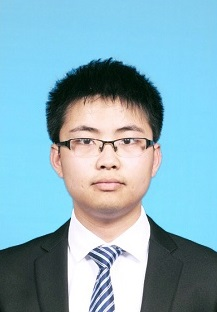
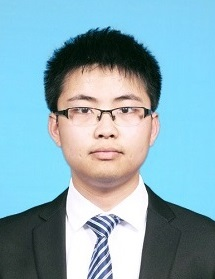
index in detail

Changed region(s): [[0.0, 0.086, 1.0, 1.0], [0.7535, 0.7742, 0.7814, 0.8029]]

diff --git a/index.html b/index.html
@@ -1,66 +1,168 @@
-
-<!DOCTYPE html PUBLIC "-//W3C//DTD XHTML 1.1//EN"
-  "http://www.w3.org/TR/xhtml11/DTD/xhtml11.dtd">
+<!DOCTYPE html PUBLIC "-//W3C//DTD XHTML 1.1//EN" "http://www.w3.org/TR/xhtml11/DTD/xhtml11.dtd">
 <html xmlns="http://www.w3.org/1999/xhtml" xml:lang="en">
+
 <head>
 <link rel="icon" type="image/png" href="image/fengjixiong.jpg">
 <meta http-equiv="Content-Type" content="text/html;charset=utf-8" />
 <link rel="stylesheet" href="jemdoc.css" type="text/css" />
 <title>Jixiong Feng</title>
 </head>
-<body>
-  <table summary="Table for page layout." id="tlayout">
-    <tr valign="top">
-      <td id="layout-content">
-        <div id="toptitle">
-          <h1>Jixiong Feng</h1>
-        </div>
-        <table class="imgtable">
-        <tr>
-          <td>
-          <a href=""><img src="image/fengjixiong.jpg" alt="Jixiong Feng" width="108px" height="140px" /></a>&nbsp;
-          </td>
-          <td align="left">
-          <p>Greetings! I received my master's degree at Department of Electronics Engineering(Dept.EE), Tsinghua University. 
-            My supervisors was <a href="http://www.ee.tsinghua.edu.cn/publish/eeen/3784/2010/20101219115647917992904/20101219115647917992904_.html">Ms. Liangrui Peng</a>.</p>
-          <p>My research interest is mainly on machine learning and its applications to multimedia analysis and computer vision.</p>
-          </td>
-        </tr>
-        </table>
 
-        <h2>Education</h2>
-        <ol>
-          <li>2009-2013: Zhejiang University, Bachelor of Engineering</li>
-          <li>2013-2015: Tsinghua University, Master of Science</li>
-        </ol>
-        
-        <h2>Work Experience</h2>
-        <ol>
-          <li>2015-NOW: Institute of Electronics, Chinese Academy of Science, Research Assistant</li>
-        </ol>
-        
-        <h2>Selected Publications</h2>
-        <ol>
-          <li><p><b>Feng, Jixiong</b>, L. Peng, and F. Lebourgeois. 
-            "Gaussian process style transfer mapping for historical Chinese character recognition." 
-            SPIE/IS&T Electronic Imaging International Society for Optics and Photonics, 2015.</p>
-          </li>
-        </ol>
-        
-        <h2>Honors & Awards</h2>
-        <ol>
-          <li>Best Student Award of the 22nd Document Recognition & Retrieval, SPIE2015 (San Francisco, USA)</li>
-          <li>3rd Award of Tsinghua Student Award (2015)</li>
-          <li>National Award (2010, 2011 and 2012)</li>
-          <li>2nd award of the National Math Competition for the Undergraduates</li>
-        </ol>
-        
-        <h2>Contact</h2>
-        <p>Mail Adress: Institute of Electronics, Chinese Academy of Science, 
-        No.19 North 4th Ring Road West, Haidian District, Beijing, China.</p>
-        <p>Email: jxfeng@mail.ie.ac.cn</p>
-      </td>
-    </tr>
-  </table>
+<body>
+
+<h1>Jixiong Feng (冯继雄)</h1>
+<table class="imgtable">
+<tr>
+  <td>
+	<a href="">
+	  <img src="image/fengjixiong.jpg" alt="Jixiong Feng" width="120px" height="160px" />
+	</a>
+  </td>
+  <td align="left">
+	&nbsp &nbsp Greetings! <br />
+	&nbsp &nbsp I'm a research assistant in IECAS (Institute of Electronics, Chinese Academy of Science). I received my master's degree at Department of Electronic Engineering, Tsinghua University. My supervisors was <a href="http://www.tsinghua.edu.cn/publish/eeen/3784/2010/20101219115647917992904/20101219115647917992904_.html">Professor Liangrui Peng</a>.<br />
+	&nbsp &nbsp <b>Now I'm looking for a doctorate</b>. My research interests are mainly on machine learning methods and their applications to computer vision. 
+	<br />
+  </td>
+</tr>
+</table>
+
+<h2>Education</h2>
+<ol>
+  <li type="disc">
+	2009-2013: 
+	<a href = "http://www.zju.edu.cn/english/">Zhejiang University</a>, 
+	Bachelor of Engineering in 
+	<a href="http://www.isee.zju.edu.cn/english/">College of Information Science & Electronic Engineering</a>
+  </li>
+  <li type="disc">
+	2013-2015: 
+	<a href = "http://www.tsinghua.edu.cn/publish/newthuen/index.html">Tsinghua University</a>, 
+	Master of Science in 
+	<a href = "http://www.tsinghua.edu.cn/publish/eeen/index.html">Department of Electronic Engineering</a>
+  </li>
+</ol>
+
+<h2>Work Experience</h2>
+<ol>
+	<li type="disc">2012.7-2012.9 Software Engineer Intern at 
+		<a href="http://www.dafeng.com.cn/en">Zhejiang Dafeng Technology Co., Ltd</a>, 
+	</li>
+	<li type="disc">2014.1-2014.5 Algorithm Engineer Intern at 
+		<a href="http://www.arkband.com/">Beijing Arkband Technology Co., Ltd</a>(In Chinese)
+	</li>
+	<li type="disc">2014.7-2014.8 Software Engineer Intern at 
+		<a href="http://www.tp-link.com/us/">Shenzhen TP-Link Technology Co., Ltd</a>
+	</li>
+	<li type="disc">2017.4-2017.7 Part-time Project Manager at 
+		<a href="http://www.geovis.com.cn/">Beijing GeoVis Technology Co., Ltd</a> (In Chinese)
+	</li>
+	<li type="disc"><b>2015.7-NOW&nbsp Research Assistant</b> at 
+		<a href="http://english.ie.cas.cn/">IECAS (Institute of Electronics, Chinese Academy of Science)</a>
+	</li>
+
+</ol>
+
+<h2>Selected Publications</h2>
+<ol>
+	<li type="disc">
+		Liangrui Peng and <b>Jixiong Feng</b>. 
+		<i>Historical Chinese Character Recognition Using Transfer Learning</i>. Advances in Chinese Document and Text Processing: pp. 127-146.2017
+		<a href="http://www.worldscientific.com/doi/abs/10.1142/9789813143685_0005">[detail]</a>
+	</li>
+	<li type="disc">
+		<b>Jixiong Feng</b>. 
+		<i>Research on Handwritten Historical Chinese Character Recognition</i>.
+		<a href="doc/2015-thesis-on-historical-chinese-recognition.pdf">[pdf]</a>
+	</li>
+	<li type="disc">
+		<b>Feng, Jixiong</b>, L. Peng, and F. Lebourgeois. 
+		<i>Gaussian process style transfer mapping for historical Chinese character recognition.</i>
+		SPIE/IS&T Electronic Imaging International Society for Optics and Photonics, 2015.
+		<a href="https://www.spiedigitallibrary.org/conference-proceedings-of-spie/9402/1/Gaussian-process-style-transfer-mapping-for-historical-Chinese-character-recognition/10.1117/12.2076119.short">[detail]</a>
+		<a href="doc/2015-SPIE-guassian-process-historical-chinese-recognition.pdf">[pdf]</a>
+	</li>
+	<li type="disc">
+		<b>Feng, Jixiong</b>.
+		<i>Body Recognition base on Gait</i>. Thesis for Bachelor's Degree in Zhejiang University, 2013.
+		<a href="doc/2013-thesis-on-gait-recognition.pdf">[pdf]</a>
+	<li type="disc">
+		<b>Feng, Jixiong</b>, M. Zhang, W. Shen, et al. 
+		<i>Intelligent locating monitoring wrist guard</i>, CN 203195678 U[P]. 2013.
+		<a href="http://d.wanfangdata.com.cn/Patent/CN201320216021.8">[detail]</a>
+	</li>
+</ol>
+
+<h2>Projects & Researches</h2>
+<ol>
+	<li type="disc">
+		<i>Project of Image Server for the very Large TIFF</i>. &nbsp(2017)<br />
+		The project utilized tens of server computers to provide TIFF images for the users. TIFF images with sizes over 10GB were delivered on the internet by small JPG tiles, where image pyramids and Nginx were used.
+	</li>
+	<li type="disc">
+		<i>Porject of Data Mining base on Web Information</i>. &nbsp(2016)<br />
+		The project included fetching the web pages, automatically analysing texts and displaying the results, where the spider, TensorFlow-CNN-model and web front-end techniques were used.
+	</li>
+	<li type="disc">
+		<i>Project of Transferring Oracle to Distribute Data Warehouse</i>. &nbsp(2015)<br />
+		The project aimed to transfer the data in Oracle to distribute data warehouse, for the purpose of data mining and larger capacity. Apache Hawq was used here.
+	</li>
+	<li type="disc">
+		<i>Project of Building a specific 3D Engine</i>. &nbsp(2015)<br />
+		The project was designed to develope a specific 3D engine for railway. The 2D diagram in AutoCAD could be automatically transformed into 3D scene. The project could be easily used in VR.
+	</li>
+	<li type="disc">
+		<i>Research on Handwritten Historical Chinese Character Recognition</i>. &nbsp(2013-2015)<br />
+		This research proposed a non-linear style transfer mapping based on Gaussian process (GP-STM), 
+		to recognize the handwritten historical Chinese characters with a insufficient training set.
+	</li>
+	<li type="disc">
+		<i>Research on Gait based Human Recognition</i>.&nbsp(2012-2013)<br/>
+		This research proposed a HMM based method to recognize humans from their gait videos. 
+	</li>
+	<li type="disc">
+		<i>Research on A Locating Handring System base on GPS</i>.&nbsp(2012-2013)<br />
+		This research was supported by Zhejiang Province government. 
+		The research aimed to build an on-hand-system, which monitored the user’s pulse.Once the user’s pulse became abnormal, the system would send text message to the user’s families.
+	</li>
+</ol>
+
+<h2>Research Technologies and Skills</h2>
+<ol>
+	<li type="disc">
+		<i>Theories in Maths & Electronics & Information Technology</i><br />
+		Algebra, Optimization, Probability Theory; <br />
+		Digital Circuit Design, Single Chip Computer, CPU design, Digital Signal Processing;<br />
+		Computer Vision, Pattern Recognition
+	</li>
+	<li type="disc"><i>Algorithms in Computer Science</i><br />
+		Sorting, Data Structure, Object Oriented Programming, Design Pattern
+	</li>
+	<li type="disc"><i>Programming Languages</i><br />
+		C/C++/C#, MATLAB, Python and JavaScript (a little)
+	</li>
+	<li type="disc"><i>AI & CV</i><br />
+		TensorFlow, Caffe, OpenCV
+	</li >
+	<li type="disc"><i>Languages</i><br />
+		Chinese native speaker <br />
+		English IELTS 6.0 (preparing for another test, hoping the score to be 6.5 or higher)
+	</li>
+</ol>
+
+<h2>Honors & Awards</h2>
+<ol>
+  <li type="disc">Best Student Award of the 22nd Document Recognition & Retrieval, SPIE2015 (San Francisco, USA)</li>
+  <li type="disc">3rd Award of Tsinghua Student Award (2015)</li>
+  <li type="disc">National Award (2010, 2011 and 2012)</li>
+  <li type="disc">2nd award of the National Math Competition for the Undergraduates (2012)</li>
+</ol>
+
+<h2>Contact</h2>
+<b>Address</b>: No.19 North 4th Ring Road West, Haidian District, Beijing, China.<br />
+<b>Email</b>: <a href="mailto:jxfeng@mail.ie.ac.cn">jxfeng@mail.ie.ac.cn</a>
+<br /><br />
+Last update: November 20, 2017 <br />
+All rights reserved. 
 </body>
 </html>
